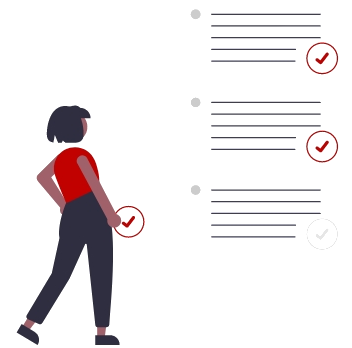
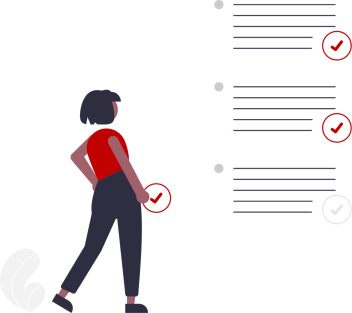
change images

diff --git a/src/app/pages/land/land/land-page.component.html b/src/app/pages/land/land/land-page.component.html
@@ -145,7 +145,7 @@
 </section>
 <section style="padding-bottom: 70px !important;">
   <div class="col-12 d-flex justify-content-center">
-    <img class="img-2 " src="assets/img/land/road.png" />
+    <img class="img-2 " src="assets/img/land/f29.png" />
     <div class="card-body" style="max-width: 1200px;">
       <div class="row m-0">
         <div class="col-lg-12 justify-content-center align-items-center text-center" style="padding-top: 1.5rem;padding-right: 1.5rem;padding-left: 1.5rem;">
